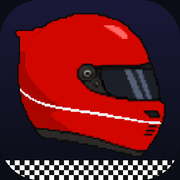
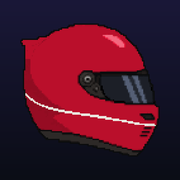
v1.4.4-d1: 사이트 아이콘 새로 (체커기 빼고 게임 빨강, 도트 4배로 선명하게)
Claude-Session: https://claude.ai/code/session_01VdQsFodcieQNN54N11YGpB

diff --git a/index.html b/index.html
@@ -9,9 +9,9 @@
 <meta name="description" content="카트에서 시작해 F4·F3·F2를 거쳐 F1 월드 챔피언까지! 내 드라이버를 키우는 모바일 F1 커리어 육성 게임. 설치 없이 브라우저에서 무료로 바로 플레이.">
 <meta name="keywords" content="카트부터 월챔까지, F1 게임, F1 육성 게임, 레이싱 커리어, 모바일 웹게임, 카트, F1 월드 챔피언">
 <link rel="canonical" href="https://karttowc.github.io/">
-<link rel="icon" type="image/png" sizes="32x32" href="favicon-32.png">
-<link rel="icon" type="image/png" sizes="512x512" href="favicon.png">
-<link rel="apple-touch-icon" href="apple-touch-icon.png">
+<link rel="icon" type="image/png" sizes="32x32" href="favicon-32.png?v=2">
+<link rel="icon" type="image/png" sizes="512x512" href="favicon.png?v=2">
+<link rel="apple-touch-icon" href="apple-touch-icon.png?v=2">
 <meta name="theme-color" content="#0E0F12">
 <meta property="og:type" content="website">
 <meta property="og:site_name" content="카트부터 월챔까지">
@@ -3929,7 +3929,7 @@ const NOTES=[
  {v:'1.1.0',d:'2026.11.3',t:'F2 챔피언 F1 영입',items:['F2 챔피언인데 F1 제안이 하나도 없으면, 하위 팀이 약한 드라이버를 빼고 시트를 주기도 합니다(50%)']},
  {v:'1.0.0',d:'2026.11.2',t:'정식 공개!',items:['카트에서 F4·FRECA·F3·F2를 거쳐 F1 월드 챔피언까지, 실제 F1 팀·드라이버와 함께하는 커리어 게임입니다','훈련 프로그램 6가지, 프리시즌 결정, 레이스 중 사건, 휴식기 도전이 있습니다','F1 시트를 못 받아도 WEC·인디카·포뮬러E·슈퍼포뮬러·DTM에서 커리어를 이어갈 수 있습니다','르망 24시·인디 500에 도전해 트리플 크라운을 노릴 수 있습니다','은퇴식, 커리어 결산 카드, 전체 랭킹이 있습니다']},
  {d:'2026.11.2',t:'개발자의 말',dev:true}];
-const LOG_URL='https://script.google.com/macros/s/AKfycbyvaW_ZcP86QI4zMVgIvp67PHEpDinuXji1EfBDgQUT11YoB62IAw9qDwIOfyilME89vQ/exec',LOG_V2=true,LOG_VER='1.4.3',KEYL='k2wc-log-v1';
+const LOG_URL='https://script.google.com/macros/s/AKfycbyvaW_ZcP86QI4zMVgIvp67PHEpDinuXji1EfBDgQUT11YoB62IAw9qDwIOfyilME89vQ/exec',LOG_V2=true,LOG_VER='1.4.4-d1',KEYL='k2wc-log-v1';
 function lsGet(k){try{return localStorage.getItem(k)}catch(e){return null}}
 function lsSet(k,v){try{localStorage.setItem(k,v)}catch(e){}}
 const logOff=()=>lsGet('k2wc-log-off')==='1';

diff --git a/src/template.html b/src/template.html
@@ -9,9 +9,9 @@
 <meta name="description" content="카트에서 시작해 F4·F3·F2를 거쳐 F1 월드 챔피언까지! 내 드라이버를 키우는 모바일 F1 커리어 육성 게임. 설치 없이 브라우저에서 무료로 바로 플레이.">
 <meta name="keywords" content="카트부터 월챔까지, F1 게임, F1 육성 게임, 레이싱 커리어, 모바일 웹게임, 카트, F1 월드 챔피언">
 <link rel="canonical" href="https://karttowc.github.io/">
-<link rel="icon" type="image/png" sizes="32x32" href="favicon-32.png">
-<link rel="icon" type="image/png" sizes="512x512" href="favicon.png">
-<link rel="apple-touch-icon" href="apple-touch-icon.png">
+<link rel="icon" type="image/png" sizes="32x32" href="favicon-32.png?v=2">
+<link rel="icon" type="image/png" sizes="512x512" href="favicon.png?v=2">
+<link rel="apple-touch-icon" href="apple-touch-icon.png?v=2">
 <meta name="theme-color" content="#0E0F12">
 <meta property="og:type" content="website">
 <meta property="og:site_name" content="카트부터 월챔까지">
@@ -2636,7 +2636,7 @@ const NOTES=[
  {v:'1.1.0',d:'2026.11.3',t:'F2 챔피언 F1 영입',items:['F2 챔피언인데 F1 제안이 하나도 없으면, 하위 팀이 약한 드라이버를 빼고 시트를 주기도 합니다(50%)']},
  {v:'1.0.0',d:'2026.11.2',t:'정식 공개!',items:['카트에서 F4·FRECA·F3·F2를 거쳐 F1 월드 챔피언까지, 실제 F1 팀·드라이버와 함께하는 커리어 게임입니다','훈련 프로그램 6가지, 프리시즌 결정, 레이스 중 사건, 휴식기 도전이 있습니다','F1 시트를 못 받아도 WEC·인디카·포뮬러E·슈퍼포뮬러·DTM에서 커리어를 이어갈 수 있습니다','르망 24시·인디 500에 도전해 트리플 크라운을 노릴 수 있습니다','은퇴식, 커리어 결산 카드, 전체 랭킹이 있습니다']},
  {d:'2026.11.2',t:'개발자의 말',dev:true}];
-const LOG_URL='https://script.google.com/macros/s/AKfycbyvaW_ZcP86QI4zMVgIvp67PHEpDinuXji1EfBDgQUT11YoB62IAw9qDwIOfyilME89vQ/exec',LOG_V2=true,LOG_VER='1.4.3',KEYL='k2wc-log-v1';
+const LOG_URL='https://script.google.com/macros/s/AKfycbyvaW_ZcP86QI4zMVgIvp67PHEpDinuXji1EfBDgQUT11YoB62IAw9qDwIOfyilME89vQ/exec',LOG_V2=true,LOG_VER='1.4.4-d1',KEYL='k2wc-log-v1';
 function lsGet(k){try{return localStorage.getItem(k)}catch(e){return null}}
 function lsSet(k,v){try{localStorage.setItem(k,v)}catch(e){}}
 const logOff=()=>lsGet('k2wc-log-off')==='1';

diff --git a/tools/brand.py b/tools/brand.py
@@ -4,9 +4,10 @@ Usage: python3 tools/build.py && python3 tools/brand.py   (writes og.png, favico
 import pathlib
 from playwright.sync_api import sync_playwright
 R=pathlib.Path(__file__).resolve().parent.parent
-RED={'base':'#E10600','sec':'#F5F5F5','pat':'visor','vis':'dark'}
-JS="""async h=>{for(let t=0;t<50;t++){if(avatarCanvas(1,h,true)&&helmetCanvas(h))break;await new Promise(r=>setTimeout(r,100))}
- return{av:avatarCanvas(1,h,true).url,hel:helmetCanvas(h).url,title:TITLE_IMG,tro:TROPHY.F1}}"""
+RED={'base':'#E10600','sec':'#F5F5F5','pat':'visor','vis':'dark'}  # og.png suit
+HEL={'base':'#C8102E','sec':'#EDEAE3','pat':'visor','vis':'dark'}  # icon helmet: game palette (rosso red + pearl white)
+JS="""async([h,hh])=>{for(let t=0;t<50;t++){if(avatarCanvas(1,h,true)&&helmetCanvas(hh))break;await new Promise(r=>setTimeout(r,100))}
+ return{av:avatarCanvas(1,h,true).url,hel:helmetCanvas(hh).url,title:TITLE_IMG,tro:TROPHY.F1}}"""
 OG="""<html><head><link rel="stylesheet" href="https://fonts.googleapis.com/css2?family=Barlow+Condensed:wght@600;700&family=IBM+Plex+Sans+KR:wght@700&display=swap">
 <style>*{margin:0;box-sizing:border-box}body{width:1200px;height:630px;overflow:hidden;background:linear-gradient(180deg,#070914 0%,#10142A 45%,#1A1838 75%,#0B0D16 100%);position:relative;font-family:'Barlow Condensed',sans-serif}
 .st{position:absolute;width:3px;height:3px;background:#fff;opacity:.6}
@@ -30,10 +31,7 @@ OG="""<html><head><link rel="stylesheet" href="https://fonts.googleapis.com/css2
 <div class="trk"><div class="kerb" style="top:0"></div><div class="kerb" style="top:48px"></div><div class="chk"></div></div>
 <div class="r"><div class="glow"></div><img class="tro" src="__TRO__"><img class="av" src="__AV__"></div>
 </body></html>"""
-ICON="""<html><body style="margin:0;width:512px;height:512px;background:transparent">
-<div style="width:512px;height:512px;border-radius:112px;background:linear-gradient(180deg,#1A1838,#0B0D16);display:flex;align-items:center;justify-content:center;overflow:hidden;position:relative">
-<div style="position:absolute;left:0;right:0;bottom:0;height:56px;background:repeating-conic-gradient(#fff 0 25%,#111 0 50%) 0 0/28px 28px"></div>
-<img src="__HEL__" style="width:430px;image-rendering:pixelated;position:relative;top:-14px"></div></body></html>"""
+
 import random
 random.seed(7)
 pts=[(random.randint(0,1200),random.randint(0,520)) for _ in range(90)]
@@ -41,19 +39,26 @@ stars=''.join(f'<i class="st" style="left:{x}px;top:{y}px"></i>' for x,y in pts 
 with sync_playwright() as p:
     b=p.chromium.launch(executable_path='/opt/pw-browsers/chromium') if pathlib.Path('/opt/pw-browsers/chromium').is_file() else p.chromium.launch();pg=b.new_page(viewport={'width':390,'height':844})
     pg.goto('file://'+str(R/'index.html'));pg.wait_for_timeout(500)
-    a=pg.evaluate(JS,RED)
+    a=pg.evaluate(JS,[RED,HEL])
     og=b.new_page(viewport={'width':1200,'height':630})
     og.set_content(OG.replace('__STARS__',stars).replace('__TITLE__',a['title']).replace('__AV__',a['av']).replace('__TRO__',a['tro']))
     og.wait_for_timeout(1500);og.screenshot(path=str(R/'og.png'))
-    ic=b.new_page(viewport={'width':512,'height':512})
-    ic.set_content(ICON.replace('__HEL__',a['hel']));ic.wait_for_timeout(300)
-    ic.screenshot(path=str(R/'favicon.png'),omit_background=True)
     b.close()
-from PIL import Image
-im=Image.open(R/'favicon.png').convert('RGBA')
+import base64,io
+from PIL import Image,ImageDraw
+# icon (v1.4.4): helmet pixel art scaled exactly 4x (crisp), navy rounded square, no checker flag
+N=568
+hel=Image.open(io.BytesIO(base64.b64decode(a['hel'].split(',')[1]))).convert('RGBA')
+hel=hel.resize((hel.width*4,hel.height*4),Image.NEAREST)
+bg=Image.new('RGBA',(N,N));d=ImageDraw.Draw(bg)
+for y in range(N):
+    t=y/(N-1);d.line([(0,y),(N,y)],fill=(int(26-15*t),int(24-11*t),int(56-34*t),255))
+bg.alpha_composite(hel,((N-hel.width)//2,(N-hel.height)//2))
+m=Image.new('L',(N,N),0);ImageDraw.Draw(m).rounded_rectangle([0,0,N-1,N-1],124,fill=255)
+im=Image.new('RGBA',(N,N),(0,0,0,0));im.paste(bg,(0,0),m);im=im.resize((512,512),Image.LANCZOS)
 im.resize((32,32),Image.LANCZOS).save(R/'favicon-32.png')
-# iOS rounds corners itself and dislikes transparency: flatten on the dark bg
-bg=Image.new('RGBA',im.size,(11,13,22,255));bg.alpha_composite(im);bg.convert('RGB').resize((180,180),Image.LANCZOS).save(R/'apple-touch-icon.png')
+# iOS rounds corners itself and dislikes transparency: full-bleed square
+bg.convert('RGB').resize((180,180),Image.LANCZOS).save(R/'apple-touch-icon.png')
 im.save(R/'favicon.png',optimize=True)
 im.save(R/'favicon.ico',sizes=[(16,16),(32,32),(48,48)])
 print('ok')
